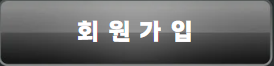
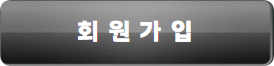
adsf123

diff --git a/src/ch01/LoginPanel.java b/src/ch01/LoginPanel.java
@@ -162,7 +162,7 @@ public class LoginPanel extends JFrame {
 		backgroundPanel.add(comboBox);
 
 		// 버튼
-		signUpBtn.setBounds(220, 730, 180, 80);
+		signUpBtn.setBounds(170, 730, 280, 80);
 		signUpBtn.setBorder(null);
 		signUpBtn.setContentAreaFilled(false);
 
@@ -174,12 +174,25 @@ public class LoginPanel extends JFrame {
 	private void addEventListener() {
 		signUpBtn.addMouseListener(new MouseAdapter() {
 			public void mousePressed(MouseEvent e) {
-				if (idTextField.getText().isEmpty() || pwdTextField.getText().isEmpty()
-						|| phoneNumField.getText().isEmpty() || addressField.getText().isEmpty()
-						|| emailField.getText().isEmpty()) {
-					JOptionPane.showConfirmDialog(null, "값을 입력해주세요", "알림", JOptionPane.DEFAULT_OPTION,
+
+				if (idTextField.getText().isEmpty()) {
+					JOptionPane.showConfirmDialog(null, "아이디를 입력해주세요", "알림", JOptionPane.DEFAULT_OPTION,
 							JOptionPane.PLAIN_MESSAGE);
-				} else {
+				} else if (pwdTextField.getText().isEmpty()) {
+					JOptionPane.showConfirmDialog(null, "패스워드를 입력해주세요", "알림", JOptionPane.DEFAULT_OPTION,
+							JOptionPane.PLAIN_MESSAGE);
+				} else if (phoneNumField.getText().isEmpty()) {
+					JOptionPane.showConfirmDialog(null, "전화번호를 입력해주세요", "알림", JOptionPane.DEFAULT_OPTION,
+							JOptionPane.PLAIN_MESSAGE);
+				} else if (addressField.getText().isEmpty()) {
+					JOptionPane.showConfirmDialog(null, "주소를 입력해주세요", "알림", JOptionPane.DEFAULT_OPTION,
+							JOptionPane.PLAIN_MESSAGE);
+				} else if (emailField.getText().isEmpty()) {
+					JOptionPane.showConfirmDialog(null, "이메일을 입력해주세요", "알림", JOptionPane.DEFAULT_OPTION,
+							JOptionPane.PLAIN_MESSAGE);
+				} else if (!idTextField.getText().isEmpty() || !pwdTextField.getText().isEmpty()
+						|| !phoneNumField.getText().isEmpty() || !addressField.getText().isEmpty()
+						|| !emailField.getText().isEmpty()) {
 					try {
 						ReservationPersonInfoDTO dto = CarDAO.insertPerson(idTextField.getText(),
 								pwdTextField.getText(), phoneNumField.getText(), addressField.getText(),
@@ -188,12 +201,33 @@ public class LoginPanel extends JFrame {
 								JOptionPane.PLAIN_MESSAGE);
 						setVisible(false);
 					} catch (SQLException s) {
+						JOptionPane.showConfirmDialog(null, "중복된 아이디 입니다.", "알림", JOptionPane.DEFAULT_OPTION,
+								JOptionPane.PLAIN_MESSAGE);
 						s.printStackTrace();
 					}
+//				}
+
+//				if (idTextField.getText().isEmpty() || pwdTextField.getText().isEmpty()
+//						|| phoneNumField.getText().isEmpty() || addressField.getText().isEmpty()
+//						|| emailField.getText().isEmpty()) {
+//					JOptionPane.showConfirmDialog(null, "값을 입력해주세요", "알림", JOptionPane.DEFAULT_OPTION,
+//							JOptionPane.PLAIN_MESSAGE);
+//				} else {
+//					try {
+//						ReservationPersonInfoDTO dto = CarDAO.insertPerson(idTextField.getText(),
+//								pwdTextField.getText(), phoneNumField.getText(), addressField.getText(),
+//								emailField.getText(), comboBox.getSelectedItem().toString());
+//						JOptionPane.showConfirmDialog(null, "회원가입 완료", "알림", JOptionPane.DEFAULT_OPTION,
+//								JOptionPane.PLAIN_MESSAGE);
+//						setVisible(false);
+//					} catch (SQLException s) {
+//						s.printStackTrace();
+//					}
 
 				}
 			}
 		});
+
 	}
 
 	public static void main(String[] args) {

diff --git a/src/DAO/RentalCarSystem.java b/src/DAO/RentalCarSystem.java
@@ -453,7 +453,7 @@ public class RentalCarSystem extends JFrame {
 			pstmt.setDate(7, new java.sql.Date(endDate.getTime()));
 
 			ResultSet rs = pstmt.executeQuery();
-			return !rs.next(); // Return true if no overlapping reservation found
+			return !rs.next(); 
 		} catch (SQLException e) {
 			e.printStackTrace();
 			return false;
@@ -479,10 +479,10 @@ public class RentalCarSystem extends JFrame {
 	private void showSignupForm() {
 		JFrame frame = new JFrame("회원 가입");
 		frame.setDefaultCloseOperation(JFrame.DISPOSE_ON_CLOSE);
-		frame.setSize(300, 250); // Increased size to accommodate additional fields
+		frame.setSize(300, 250); 
 		frame.setLayout(new BorderLayout());
 
-		JPanel panel = new JPanel(new GridLayout(6, 2)); // Adjusted grid layout for new fields
+		JPanel panel = new JPanel(new GridLayout(6, 2)); 
 
 		JLabel usernameLabel = new JLabel("사용자 이름:");
 		JTextField usernameField = new JTextField();
@@ -506,7 +506,7 @@ public class RentalCarSystem extends JFrame {
 		panel.add(addressField);
 		panel.add(emailLabel);
 		panel.add(emailField);
-		panel.add(new JLabel()); // Empty label for spacing
+		panel.add(new JLabel()); 
 		panel.add(signupButton);
 
 		frame.add(panel, BorderLayout.CENTER);

diff --git a/src/ch01/HomePagePanel.java b/src/ch01/HomePagePanel.java
@@ -79,15 +79,17 @@ public class HomePagePanel extends JFrame {
 		// main 이미지
 		greenCarLabel1 = new JLabel(new ImageIcon("img/backgroundImg.jpg"));
 		greenCarLabel2 = new JLabel(new ImageIcon("img/backgroundImg2.jpg"));
-		usernameLabel = new JLabel(username + "님, 환영합니다.");
-		usernameLabel.setBounds(750, -80, 105, 200);
-		usernameLabel.setLayout(null);
-		backgroundPanel.add(usernameLabel);
+//		usernameLabel = new JLabel(username + "님, 환영합니다.");
+//		usernameLabel.setBounds(750, -80, 105, 200);
+//		usernameLabel.setLayout(null);
+//		backgroundPanel.add(usernameLabel);
 	}
 
 	public void setInitLayout() {
 		// 프레임 설정
+
 		setSize(1000, 1000);
+		setTitle(username + "님, 환영합니다.");
 		setDefaultCloseOperation(JFrame.EXIT_ON_CLOSE);
 		setLocationRelativeTo(null);
 		setResizable(false);

diff --git a/src/main/Login.java b/src/main/Login.java
@@ -129,7 +129,7 @@ public class Login extends JFrame {
 					System.out.println("로그인 성공");
 					HomePagePanel hpp = new HomePagePanel(id);
 					hpp.setVisible(true);
-					frame1.dispose();
+					setVisible(false);
 				} else {
 					JOptionPane.showConfirmDialog(null, "로그인 실패", "알림", JOptionPane.DEFAULT_OPTION,
 							JOptionPane.PLAIN_MESSAGE);
